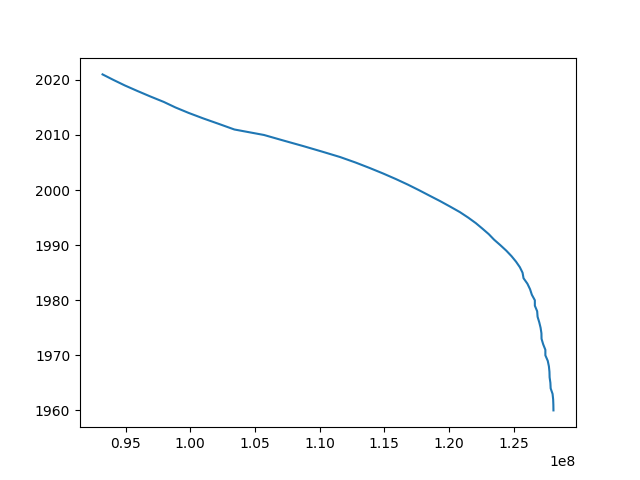
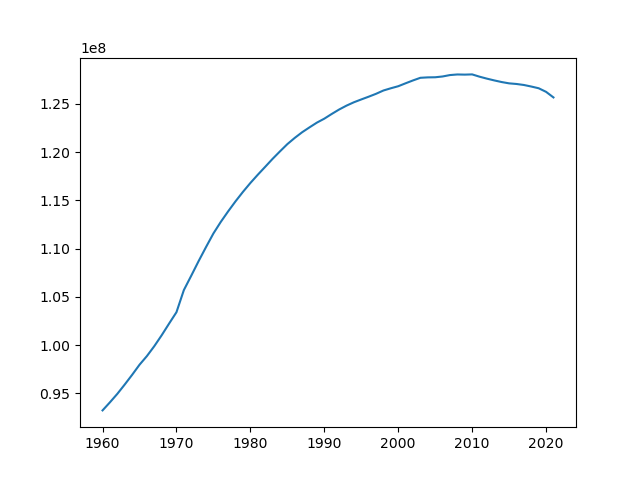
Add files via upload

diff --git a/人口_線グラフ/main.py b/人口_線グラフ/main.py
@@ -32,9 +32,9 @@ def ranking(population, calendar):
     datalist = []
     for i in range(len(population)):
         d[population[i]] = calendar[i]
-    population.sort()
-    for n in range(1, 6):
-        datalist.append(str(n) + "位: " + str(calendar[n]) + "年" + "\n")
+    s = sorted(d.items(), reverse=True)
+    for n in range(0, 5):
+        datalist.append(str(n+1) + "位: " + str(s[n][1]) + "年" + "\n")
 
     return datalist
 
@@ -50,6 +50,6 @@ write_text(datalist)
 
 
 # 折れ線グラフ出力
-plt.plot(population, calendar)
+plt.plot(calendar, population)
 plt.savefig("data.png")
 plt.show()
